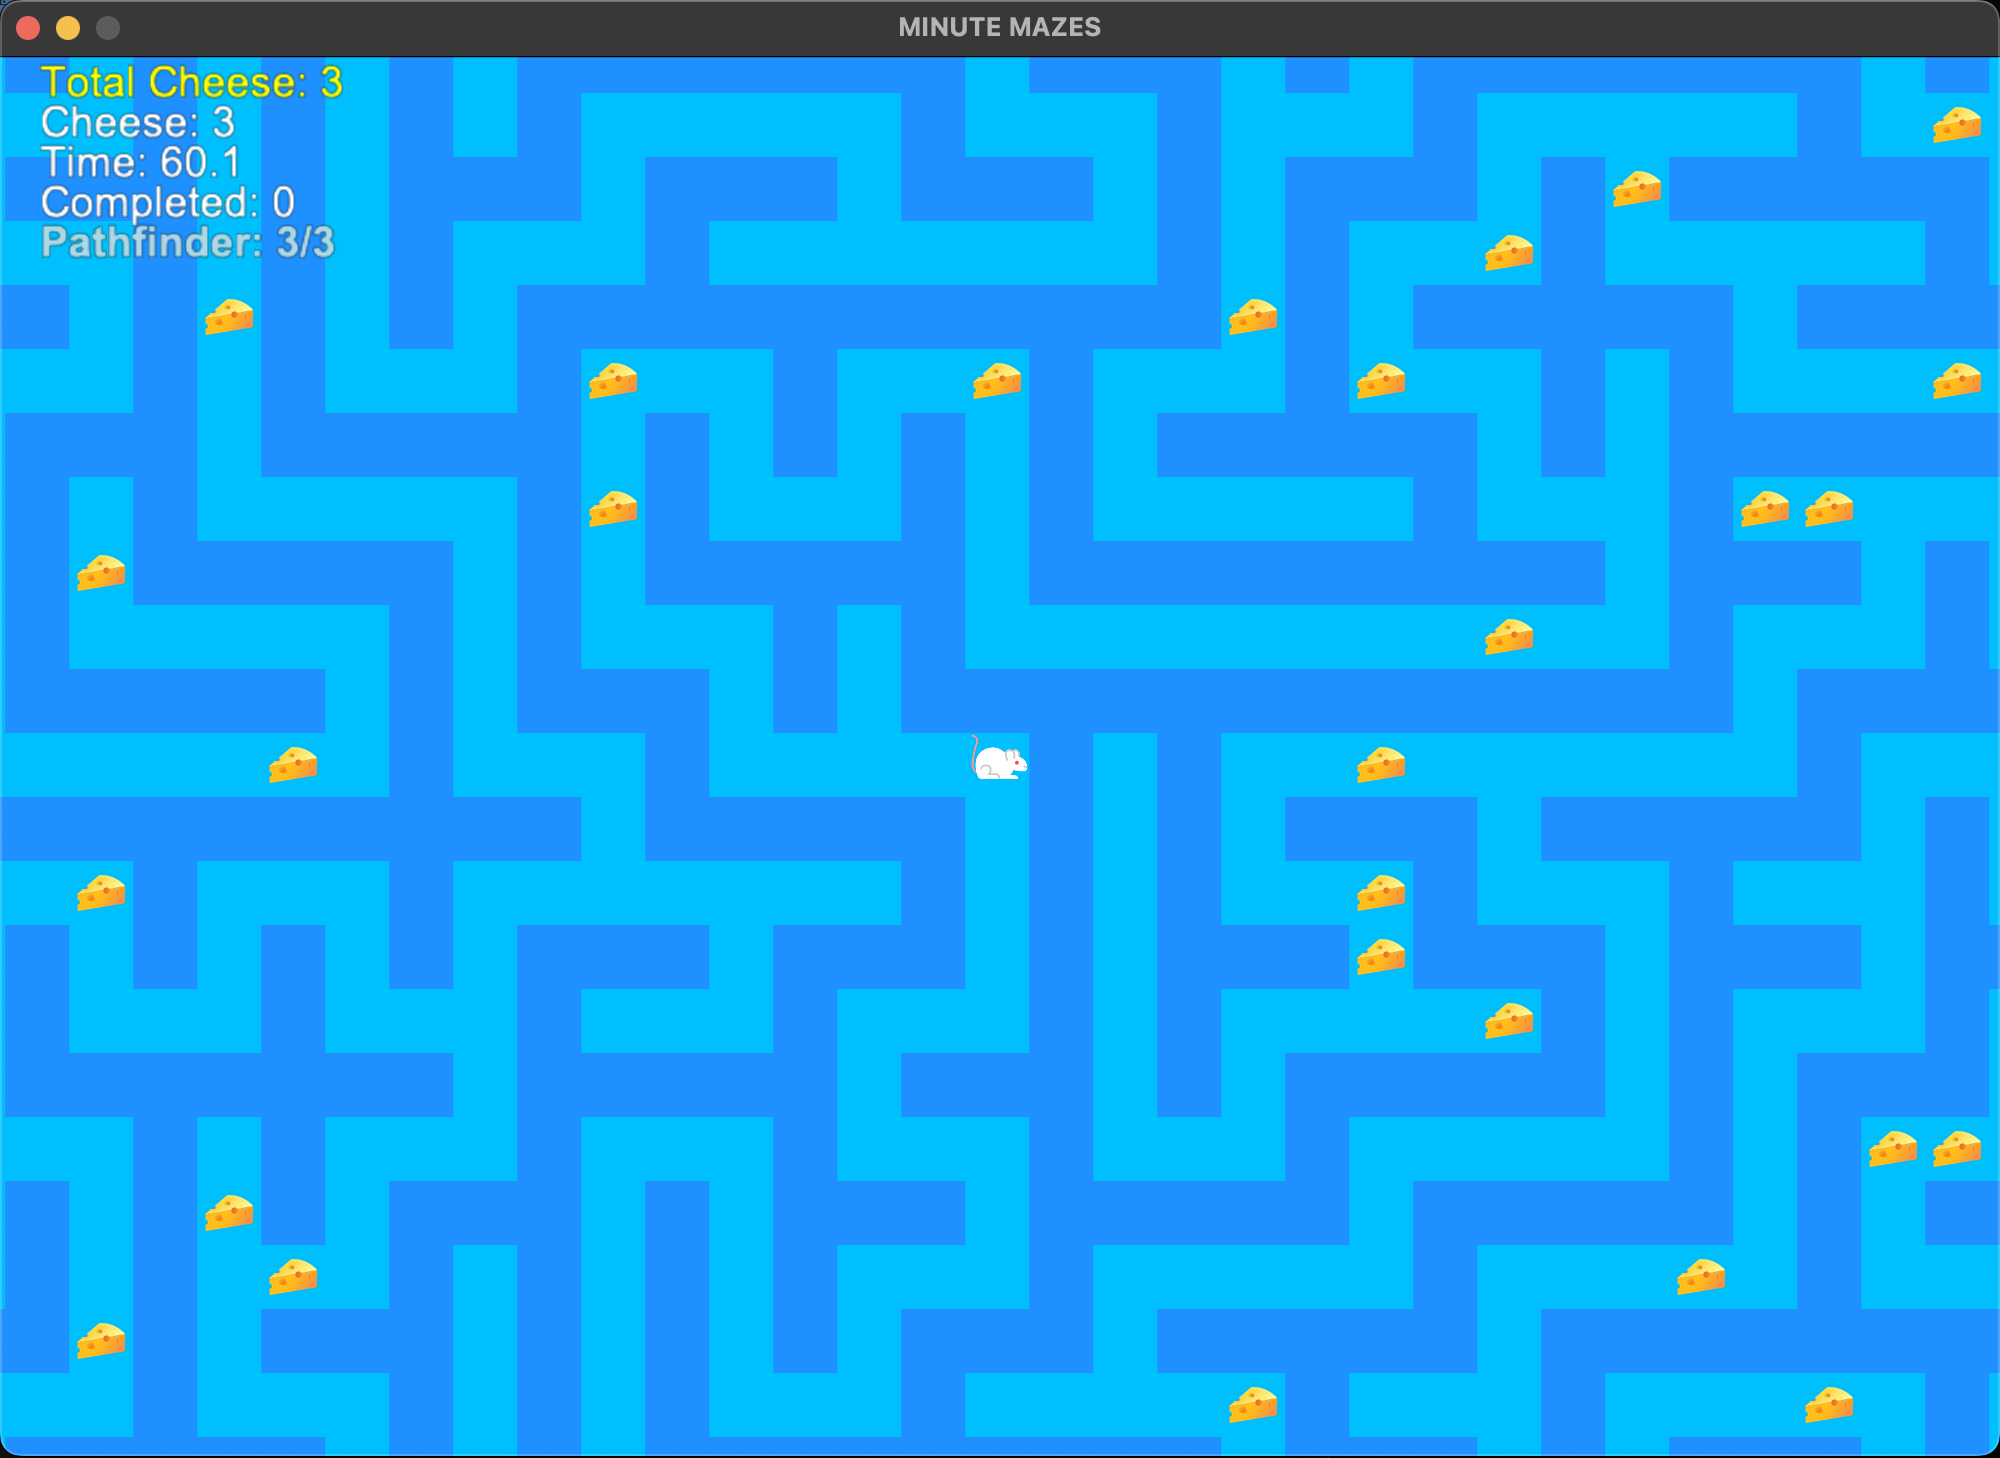
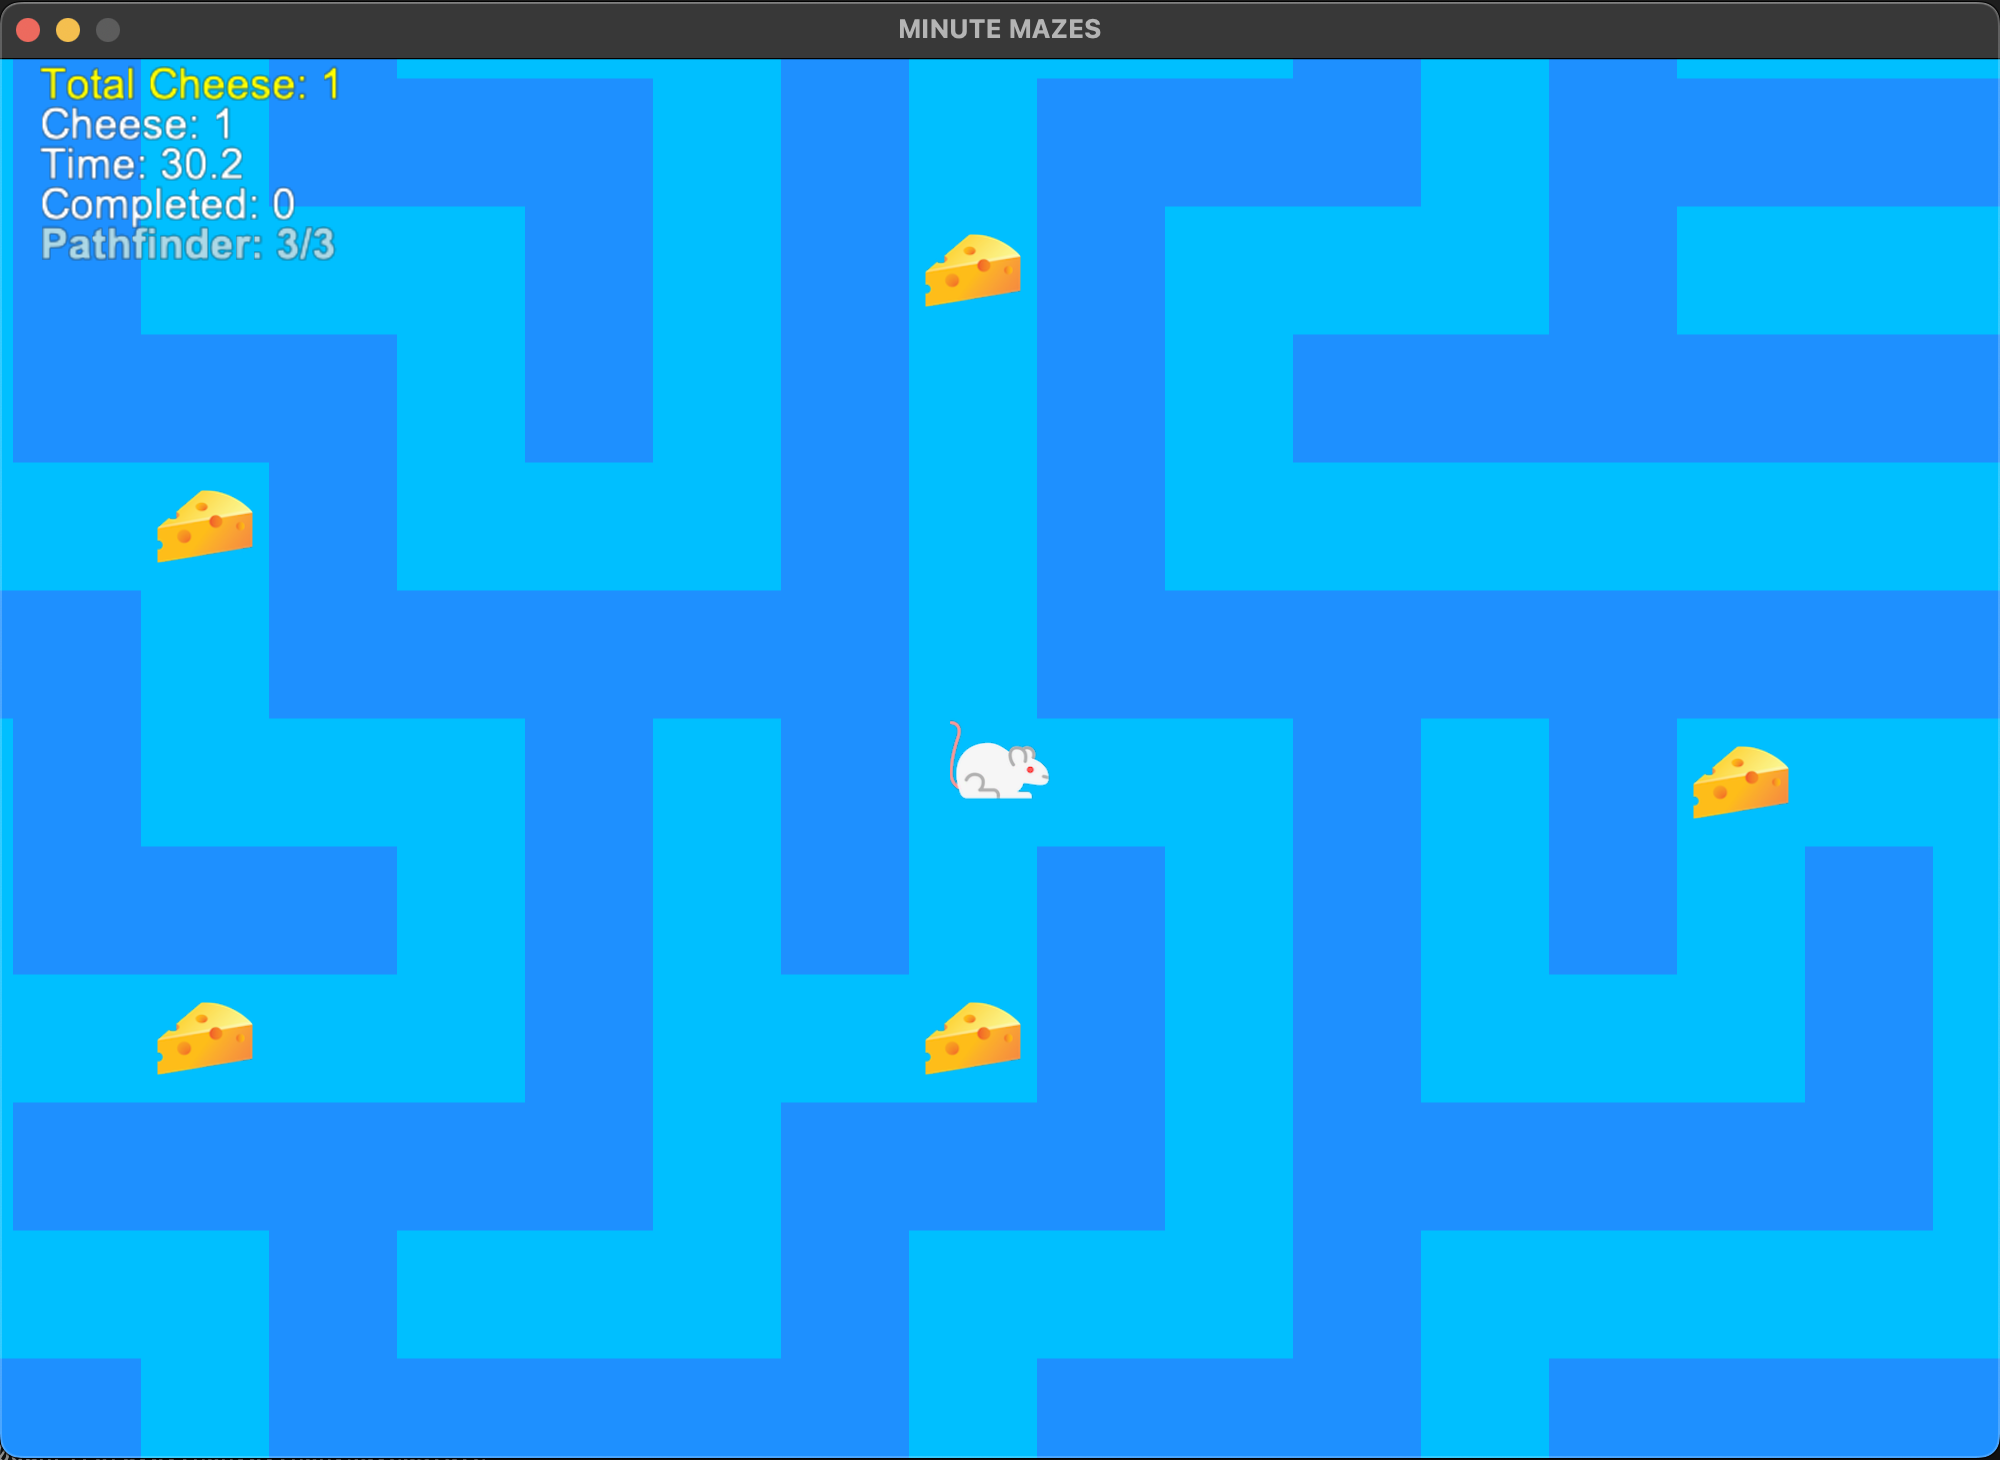
image manipulation, color selection, etc

diff --git a/classes.py b/classes.py
@@ -19,6 +19,9 @@ from functions import make_maze, astar
 # Global maze size setting (can be changed in settings)
 MAZE_SIZE_SETTING = 51  # Default to large (options: 21, 31, 51)
 
+# Global mouse color setting (can be changed in settings)
+MOUSE_COLOR_SETTING = "white"  # Default to white (options: "white", "grey", "brown")
+
 # Global volume setting (can be changed in settings)
 VOLUME_SETTING = 0.5  # Default to 50% (range: 0.0 to 1.0)
 
@@ -202,12 +205,72 @@ class SettingsView(arcade.View):
         menu_box.add(size_button_box)
         
         menu_box.add(arcade.gui.UISpace(height=15))
+
+        # Mouse color section
+        mouse_label = arcade.gui.UILabel(
+            text="Mouse Color",
+            font_size=20,
+            text_color=arcade.color.WHITE,
+            bold=True
+        )
+        menu_box.add(mouse_label)
+        
+        menu_box.add(arcade.gui.UISpace(height=5))
+        
+        # Create horizontal box for mouse color buttons
+        mouse_button_box = arcade.gui.UIBoxLayout(vertical=False, space_between=10)
+        
+        white_button = arcade.gui.UIFlatButton(
+            text="White",
+            width=75,
+            height=40,
+            style=arcade.gui.UIFlatButton.STYLE_BLUE if MOUSE_COLOR_SETTING == "white" else None
+        )
+        mouse_button_box.add(white_button)
+        
+        @white_button.event("on_click")
+        def on_white_click(_):
+            global MOUSE_COLOR_SETTING
+            MOUSE_COLOR_SETTING = "white"
+            self.window.show_view(SettingsView(previous_view=self.previous_view))
+        
+        grey_button = arcade.gui.UIFlatButton(
+            text="Grey",
+            width=75,
+            height=40,
+            style=arcade.gui.UIFlatButton.STYLE_BLUE if MOUSE_COLOR_SETTING == "grey" else None
+        )
+        mouse_button_box.add(grey_button)
+        
+        @grey_button.event("on_click")
+        def on_grey_click(_):
+            global MOUSE_COLOR_SETTING
+            MOUSE_COLOR_SETTING = "grey"
+            self.window.show_view(SettingsView(previous_view=self.previous_view))
+        
+        brown_button = arcade.gui.UIFlatButton(
+            text="Brown",
+            width=75,
+            height=40,
+            style=arcade.gui.UIFlatButton.STYLE_BLUE if MOUSE_COLOR_SETTING == "brown" else None
+        )
+        mouse_button_box.add(brown_button)
+        
+        @brown_button.event("on_click")
+        def on_brown_click(_):
+            global MOUSE_COLOR_SETTING
+            MOUSE_COLOR_SETTING = "brown"
+            self.window.show_view(SettingsView(previous_view=self.previous_view))
+        
+        menu_box.add(mouse_button_box)
+        
+        menu_box.add(arcade.gui.UISpace(height=15))
         
         # Volume section - combine label and percentage
         volume_header_box = arcade.gui.UIBoxLayout(vertical=False, space_between=10)
         
         volume_label = arcade.gui.UILabel(
-            text="Sound Volume:",
+            text="Volume:",
             font_size=20,
             text_color=arcade.color.WHITE,
             bold=True
@@ -616,10 +679,6 @@ class GameView(arcade.View):
         # We scroll the 'sprite world' but not the GUI.
         self.camera_sprites = arcade.Camera2D()
         self.camera_gui = arcade.Camera2D()
-        
-        # Load textures for left and right facing mouse
-        self.mouse_texture_left = arcade.load_texture("images/sprites/white_mouse.png")
-        self.mouse_texture_right = self.mouse_texture_left.flip_left_right()
 
         # Elapsed time
         self.elapsed_time = 0
@@ -692,6 +751,14 @@ class GameView(arcade.View):
 
         self.score = 0
 
+        # Set camera zoom
+        self.camera_sprites.zoom = 2.0
+
+        # Load textures for left and right facing mouse based on setting
+        mouse_filename = f"images/sprites/{MOUSE_COLOR_SETTING}_mouse.png"
+        self.mouse_texture_right = arcade.load_texture(mouse_filename)
+        self.mouse_texture_left = self.mouse_texture_right.flip_left_right()
+
         # Sound effects
         self.coin_sound = arcade.Sound("sounds/collect.wav")
         self.pathfinder_sound = arcade.Sound("sounds/pathfinder.wav")
@@ -755,22 +822,6 @@ class GameView(arcade.View):
 
                     self.wall_list.append(wall)
 
-        # # Create individual wall tiles instead of merged sprites for better texture quality
-        # for row in range(MAZE_SIZE_SETTING):
-        #     for column in range(MAZE_SIZE_SETTING):
-        #         if maze[row][column] == TILE_CRATE:
-        #             wall = arcade.Sprite(
-        #                 "images/tiles/blankTile.png",
-        #                 scale=SPRITE_SCALING,
-        #             )
-        #             wall.center_x = column * SPRITE_SIZE + SPRITE_SIZE / 2
-        #             wall.center_y = row * SPRITE_SIZE + SPRITE_SIZE / 2
-                    
-        #             # SET MAZE WALL COLOR
-        #             wall.color = arcade.color.DODGER_BLUE
-                    
-        #             self.wall_list.append(wall)
-
         # Create floor tiles for all empty (walkable) spaces in the maze
         for row in range(MAZE_SIZE_SETTING):
             for column in range(MAZE_SIZE_SETTING):
@@ -793,7 +844,7 @@ class GameView(arcade.View):
         
         # Set up both textures - left at index 0, right at index 1
         self.player_sprite.textures = [self.mouse_texture_left, self.mouse_texture_right]
-        self.player_sprite.texture = self.mouse_texture_left
+        self.player_sprite.texture = self.mouse_texture_right
         self.player_list.append(self.player_sprite)
 
         # Place the player one tile to the right of the left wall (inside the maze)
@@ -982,7 +1033,7 @@ class GameView(arcade.View):
                 coin.visible = False
                 self.score += 1
                 self.grand_total_score += 1
-                self.coin_sound.play(volume=0.5 * VOLUME_SETTING)
+                self.coin_sound.play(volume=0.3 * VOLUME_SETTING)
 
         # Check if player reached the exit (player must be fully on the exit tile)
         exit_sprite = self.exit_list[0]
@@ -998,7 +1049,7 @@ class GameView(arcade.View):
             self.player_sprite.center_x < exit_tile_right and
             self.player_sprite.center_y > exit_tile_bottom and 
             self.player_sprite.center_y < exit_tile_top):
-            self.exit_sound.play(volume=0.6 * VOLUME_SETTING)
+            self.exit_sound.play(volume=0.3 * VOLUME_SETTING)
             # Show congratulations view
             congratulations_view = CongratulationsView(self)
             self.window.show_view(congratulations_view)

diff --git a/README.md b/README.md
@@ -1,9 +1,10 @@
 ![Minute Mazes](images/random/example.png)
 
-
-
 # Description: 
 Minute mazes is a basic game where the player has to navigate through a maze to reach the exit. The maze is generated with a depth-first search algorithm and constructed with Python Arcade 3.3.3. The player can move up, down, left, and right. The player can collect cheese in the maze and their score is displayed on the screen along with elapsed time for each maze.
+
+# Game Story (rough draft):
+The year is 2052. You are just one of many bio-engineered lab mice that have been created to test newly developed brain enhancements before they are approved and made available to the public. While countless mice in the past have solved mazes with the promise of cheese at the end as a reward; you have been engineered, bred, and cybernetically enhanced to be focused on just one thing: solving mazes as quickly as possible and with as high a cheese score as possible.
 
 ### Setup
 ```
@@ -22,10 +23,13 @@ python play.py
 |    Quit    |
 ```
 
-- In the 'Settings' menu, the player can adjust the maze size or effects volume:
+- In the 'Settings' menu, the player can adjust the maze size, mouse color, and effects volume:
 ```
 Maze Size:
 | Small (21x21) | Medium (31x31) | Large (51x51) |
+
+Mouse Color:
+| White | Gray | Brown |
 
 Sound Volume: 75%
 
@@ -47,7 +51,6 @@ WASD / Arrow Keys = Move through maze
 
   - In the pause menu the player can choose to resume the game, access settings, return to the main menu, or quit the game.
 
-
   ### Image Citations and Tools
   - https://www.photopea.com/ 
   - https://www.youtube.com/watch?v=dMGIkO3xh1U 
@@ -56,3 +59,5 @@ WASD / Arrow Keys = Move through maze
   - https://www.freepik.com/icon/mouse_5511456
   - https://pngimg.com/image/25292 
   - https://www.freepik.com/icon/mouse-toy_2830550
+
+  ![Minute Mazes Mouse](images/sprites/white_mouse.png)
